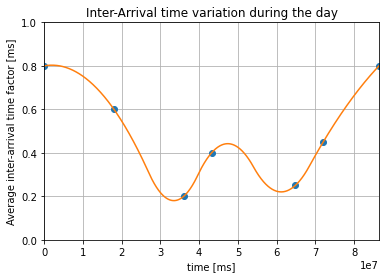
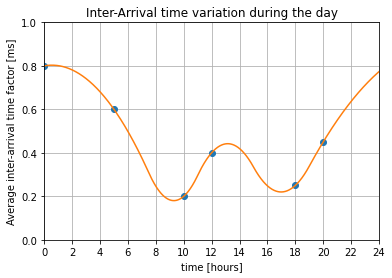
lab2 ex4a final

diff --git a/Lab2/ex4b_sim.py b/Lab2/ex4b_sim.py
@@ -1,5 +1,5 @@
 '''
-Exercise 4a
+Exercise 4b
 '''
 
 import random
@@ -12,43 +12,52 @@ np.random.seed(42)
 
 if __name__ == '__main__':
     
-    # define daily simulation functions
     f_av_arrival, f_f = sim.dailySimFunctions()
-    
-    # Micro Data Center (MDC)
-    SERVICE = 1000
-    ARRIVAL = 500
-    LOAD = SERVICE/ARRIVAL
-    BUFFER_SIZE = 5
-    FOG_NODES = 4
-    
-    # Cloud Data Center (CDC)
-    f = 0.8
-    SERVICE_CLOUD = 500
-    CLOUD_BUFFER_SIZE = 10
-    CLOUD_SERVERS = 4
-    
-    # SIMULATION PARAMS
-    SIM_TIME = 86400000 # 24 hours simulation
-    
-    # data storage object
-    data = sim.Measure()
-    data_cloud = sim.Measure()
 
-    # simulator
-    s = sim.Simulator(data, data_cloud, LOAD, SERVICE, ARRIVAL, BUFFER_SIZE, 
-                      FOG_NODES, SIM_TIME, f, CLOUD_SERVERS, CLOUD_BUFFER_SIZE, 
-                      SERVICE_CLOUD,f_av_arrival, f_f)
-    print_everything = False
-    data, data_cloud, time, _, _ = s.simulate(print_everything)
+    # simulate
+    num_sim = 1
+    for seed in range(num_sim):
+        random.seed(seed)
+        np.random.seed(seed)
+        
+        # Micro Data Center (MDC)
+        SERVICE = 1000
+        ARRIVAL = 500
+        LOAD = SERVICE/ARRIVAL
+        BUFFER_SIZE = 5
+        FOG_NODES = 4
+        
+        # Cloud Data Center (CDC)
+        f = 0.8
+        SERVICE_CLOUD = 500
+        CLOUD_BUFFER_SIZE = 10
+        CLOUD_SERVERS = 4
+        
+        # SIMULATION PARAMS
+        SIM_TIME = 86400000 # 24 hours simulation
+        
+        # data storage object
+        data = sim.Measure()
+        data_cloud = sim.Measure()
+        
+        # simulator
+        s = sim.Simulator(data, data_cloud, LOAD, SERVICE, ARRIVAL, BUFFER_SIZE, 
+                          FOG_NODES, SIM_TIME, f, CLOUD_SERVERS, CLOUD_BUFFER_SIZE, 
+                          SERVICE_CLOUD,f_av_arrival, f_f)
+        print_everything = False
+        data, data_cloud, time, _, _ = s.simulate(print_everything)
+        
+        # insert constant service rate for all fog Nodes
+        s.CloudServerServTime = [SERVICE_CLOUD for server in range(CLOUD_SERVERS)]
+        s.CloudServerCosts = [1, 0.8, 0.6, 0.4, 0.2]
+
+        
+        print(f'Average Queueing Delay [ms] = {(data.delay + data_cloud.delay) / (data.dep + data_cloud.dep)}')
+        print(f'Loss Probability = {data_cloud.toCloud/data.arr}')
+        print(f'Average number of users = {(data.ut + data_cloud.ut)/time}')
     
-    print(f'Average Queueing Delay [ms] = {(data.delay + data_cloud.delay) / (data.dep + data_cloud.dep)}')
-    print(f'Loss Probability = {data_cloud.toCloud/data.arr}')
-    print(f'Average number of users = {(data.ut + data_cloud.ut)/time}')
     
-    
-    #%% Average queueing delay with progressively faster MDC service
-    
+    # Average queueing delay with progressively faster MDC service
     delay_hourly_avgs = []
     for i in range(0,24):
         delay_hourly_avg = 0
@@ -62,13 +71,12 @@ if __name__ == '__main__':
 
     plt.grid(axis='y',zorder=0)
     plt.bar([*range(0,24)],delay_hourly_avgs, zorder=3)
-    #plt.bar([*range(0,24)],delay_hourly_avgs_1000, zorder=3, alpha=.5)
     plt.xticks(np.arange(0, 25, 2))
     plt.xlabel("time [hours]")
     plt.ylabel("Average queueing delay [ms]")
     plt.title('Average hourly queueing delay')
     plt.show()
-    
+
     arrived_pkts_hourly = []
     for i in range(0,24):
         arrived_pkts = 0
@@ -88,7 +96,6 @@ if __name__ == '__main__':
     lossPr_hourly = (np.array(lost_pkts_hourly) / np.array(arrived_pkts_hourly)).tolist()
     plt.grid(axis='y',zorder=0)
     plt.bar([*range(0,24)],lossPr_hourly, zorder=3)
-    #plt.bar([*range(0,24)],lossPr_hourly_1000, zorder=3, alpha=.5)
     plt.xticks(np.arange(0, 25, 2))
     plt.ylim([0,1])
     plt.xlabel("time [hours]")
@@ -96,3 +103,6 @@ if __name__ == '__main__':
     plt.title('Hourly loss probability')
     plt.show()
 
+
+
+    

diff --git a/Lab2/simulator_class2.py b/Lab2/simulator_class2.py
@@ -4,6 +4,7 @@ Queueing system simmulator class
 
 import random
 import numpy as np
+from scipy.interpolate import interp1d
 from matplotlib import pyplot as plt
 from queue import PriorityQueue
 
@@ -50,6 +51,55 @@ class Server(object):
         # whether the server is idle or not
         self.idle = True
 
+# define functions for daily simulation
+def dailySimFunctions(plot = False):
+    # define interest points
+    f_x_points = np.array([0,5,10,12,18,20,24.5]) * 3600000
+    f_y_points = [0.8,0.6,0.2,0.4,0.25,0.45,0.8]
+    # interpolate points
+    f_av_arrival = interp1d(f_x_points, f_y_points, kind='quadratic')
+    x = [*range(0, 86400000, 1000)]
+    y = f_av_arrival(x) # f(x) is the inter-arrival variation in a day
+
+    if plot:
+        x = np.array(x) / 3600000
+        f_x_points = np.array(f_x_points) / 3600000
+        # Plot inter-arrival variation factor
+        plt.plot(f_x_points, f_y_points,'o')
+        plt.plot(x, y)
+        plt.xlim([0,24])
+        plt.ylim([0,1])
+        plt.grid()
+        plt.xticks(np.arange(0, 25, 2))
+        plt.xlabel('time [hours]')
+        plt.ylabel('Average inter-arrival time factor [ms]')
+        plt.title('Inter-Arrival time variation during the day')
+        plt.show()
+    
+    # define interest points
+    f_x_points = np.array([0,2,4,11,13,15,18,20,24.5]) * 3600000
+    f_y_points = [0.1,0.05,0.2,0.85,0.85,0.7,0.6,0.5,0.1]
+    # interpolate points
+    f_f = interp1d(f_x_points, f_y_points, kind='quadratic')
+    x = [*range(0, 86400000, 1000)]
+    y = f_f(x) # f(x) is the inter-arrival variation in a day
+
+    if plot:
+        x = np.array(x) / 3600000
+        f_x_points = np.array(f_x_points) / 3600000
+        # Plot f variation factor
+        plt.plot(f_x_points, f_y_points, 'o')
+        plt.plot(x, y)
+        plt.xlim([0,24])
+        plt.ylim([0,1])
+        plt.grid()
+        plt.xticks(np.arange(0, 25, 2))
+        plt.xlabel('time [hours]')
+        plt.ylabel('Ratio of Type B (video pkt)')
+        plt.title('Ratio of Tpye B packets')
+        plt.show()
+
+    return f_av_arrival, f_f
 
 # Fog node assignment policies
 def SortedAssignFog(FreeFogNodes):
